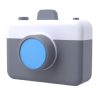
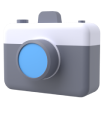
Made buttons larger and easier to click and images inside of them larger

diff --git a/src/app/page.tsx b/src/app/page.tsx
@@ -10,82 +10,89 @@ import Navbar from "@/components/design/Navbar";
 
 export default function Home() {
   return (
-    <main className="mx-auto h-screen max-w-sm flex-col items-center justify-center space-y-10 px-2 py-5">
-      <div className="flex items-center justify-between px-2">
-        <Logo />
-        <ModeToggle />
-      </div>
-      <div className="grid grid-cols-2 gap-2 gap-y-5">
-        <TakePhotoButton />
-        <Link href="/inbox">
-          <SecondaryButton className="relative flex h-[225.48px] w-full max-w-sm flex-col items-start justify-start gap-5 pb-3 pr-3 pt-10">
-            <h2 className="text-xl font-semibold">Inbox</h2>
-            <div
-              aria-hidden
-              className="relative z-10 ml-auto mt-auto h-[138.67px] w-[134.57px] overflow-hidden"
-            >
-              <Image
+    <main className="mx-auto flex h-screen max-w-sm flex-col justify-between space-y-10 px-5">
+      <div>
+        <div className="flex items-center justify-between px-2 py-5">
+          <Logo />
+          <ModeToggle />
+        </div>
+        <div className="grid grid-cols-2 gap-2 gap-y-5">
+          <TakePhotoButton />
+          <Link href="/inbox">
+            <SecondaryButton className="relative flex h-[225.48px] w-full max-w-sm flex-col items-start justify-start gap-5 pb-3 pr-3 pt-10">
+              <h2 className="text-xl font-semibold">Inbox</h2>
+              <div
                 aria-hidden
-                src="/images/assets/inbox.png"
-                fill
-                alt="Inbox icon"
-              />
-            </div>
-            <div
-              aria-hidden
-              className="weird-circle absolute bottom-0 right-0 h-[100px] w-[100px] overflow-hidden bg-secondary-variant"
-            ></div>
-          </SecondaryButton>
-        </Link>
-        <Link href="/tutorial">
-          <RegularButton
-            variant="left"
-            className="relative flex h-[225.48px] w-full max-w-sm flex-col items-start justify-start gap-5 pb-3 pr-3 pt-10"
-          >
-            <h2 className="text-xl font-semibold">Tutorial</h2>
-            <div
-              aria-hidden
-              className="absolute -bottom-2 -right-6  z-10 h-[140.63px] w-[144.12px] overflow-hidden"
-            >
-              <Image
+                className="absolute bottom-1 right-2  z-10 ml-auto mt-auto h-[110px] w-[113px] overflow-hidden"
+              >
+                <Image
+                  aria-hidden
+                  src="/images/assets/inbox.png"
+                  fill
+                  alt="Inbox icon"
+                  quality={100}
+                />
+              </div>
+              <div
                 aria-hidden
-                src="/images/assets/lightbulb.png"
-                fill
-                alt="Lightbulb icon"
-                className="z-10"
-              />
-            </div>
-            <div
-              aria-hidden
-              className="weird-circle absolute bottom-0 right-0 h-[100px] w-[100px] overflow-hidden rounded-br-3xl bg-primary-variant"
-            ></div>
-          </RegularButton>
-        </Link>
-        <Link href="/friends">
-          <RegularButton
-            variant="right"
-            className="relative flex h-[225.48px] w-full max-w-sm flex-col items-start justify-start gap-5 pb-3 pr-3 pt-10"
-          >
-            <h2 className="text-xl font-semibold">Friends</h2>
-            <div
-              aria-hidden
-              className="absolute -bottom-5 -right-6  z-10  h-[151.07px] w-[138.71px] overflow-hidden"
+                className="weird-circle absolute bottom-0 right-0 h-[140px] w-[140px] overflow-hidden bg-secondary-variant"
+              ></div>
+            </SecondaryButton>
+          </Link>
+          <Link href="/tutorial">
+            <RegularButton
+              variant="left"
+              className="relative flex h-[225.48px] w-full max-w-sm flex-col items-start justify-start gap-5 pb-3 pr-3 pt-10"
             >
-              <Image
-                src="/images/assets/headphone.png"
-                fill
-                alt="Headphone icon"
-                className="z-10"
-              />
-            </div>
-            <div
-              aria-hidden
-              className="weird-circle absolute bottom-0 right-0 h-[100px] w-[100px] overflow-hidden bg-secondary-variant"
-            ></div>
-          </RegularButton>
-        </Link>
+              <h2 className="text-xl font-semibold">Tutorial</h2>
+              <div
+                aria-hidden
+                className="absolute -bottom-2 -right-6  z-10 h-[140.63px] w-[144.12px] overflow-hidden"
+              >
+                <Image
+                  aria-hidden
+                  src="/images/assets/lightbulb.png"
+                  fill
+                  alt="Lightbulb icon"
+                  className="z-10"
+                  quality={100}
+                />
+              </div>
+              <div
+                aria-hidden
+                className="weird-circle absolute bottom-0 right-0 h-[130px] w-[130px] overflow-hidden rounded-br-3xl bg-primary-variant"
+              ></div>
+            </RegularButton>
+          </Link>
+          <Link href="/friends">
+            <RegularButton
+              variant="right"
+              className="relative flex h-[225.48px] w-full max-w-sm flex-col items-start justify-start gap-5 pb-3 pr-3 pt-10"
+            >
+              <h2 className="text-xl font-semibold">Friends</h2>
+              <div
+                aria-hidden
+                className="absolute -bottom-3 -right-3  z-10  h-[151.07px] w-[138.71px] overflow-hidden"
+              >
+                <Image
+                  src="/images/assets/headphone.png"
+                  fill
+                  alt="Headphone icon"
+                  className="z-10"
+                  quality={100}
+                />
+              </div>
+              <div
+                aria-hidden
+                className="weird-circle absolute bottom-0 right-0 h-[140px] w-[140px] overflow-hidden bg-secondary-variant"
+              ></div>
+            </RegularButton>
+          </Link>
+        </div>
       </div>
-      <Navbar />
+      <div className="pb-5">
+        <Navbar />
+      </div>
     </main>
   );
 }

diff --git a/src/components/design/TakePhotoButton.tsx b/src/components/design/TakePhotoButton.tsx
@@ -25,23 +25,24 @@ export default function TakePhotoButton() {
     <>
       <PrimaryButton
         onClick={handleClick}
-        className="relative flex h-[225.48px]  w-full max-w-sm flex-col items-start justify-start gap-5 pb-3 pr-3 pt-10"
+        className="group relative flex h-[225.48px] w-full max-w-sm flex-col items-start justify-start gap-5 pb-3 pr-3 pt-10"
       >
-        <h2 className="text-lg font-bold">Take Photo</h2>
+        <h2 className="text-xl font-semibold">Take Photo</h2>
         <div
           aria-hidden
-          className="relative z-10 ml-auto mt-auto h-[112.74px] w-[101.45px] overflow-hidden"
+          className="absolute bottom-1 right-2  z-10 ml-auto mt-auto h-[112.5px] w-[100.88px] overflow-hidden"
         >
           <Image
             aria-hidden
             src="/images/assets/Camera.png"
             fill={true}
             alt="Camera icon"
+            quality={100}
           />
         </div>
         <div
           aria-hidden
-          className="weird-circle absolute bottom-0 right-0 h-[100px] w-[100px] overflow-hidden rounded-br-3xl bg-primary-variant"
+          className="weird-circle absolute bottom-0 right-0 h-[140px] w-[140px] overflow-hidden rounded-br-3xl bg-primary-variant"
         ></div>
       </PrimaryButton>
 
